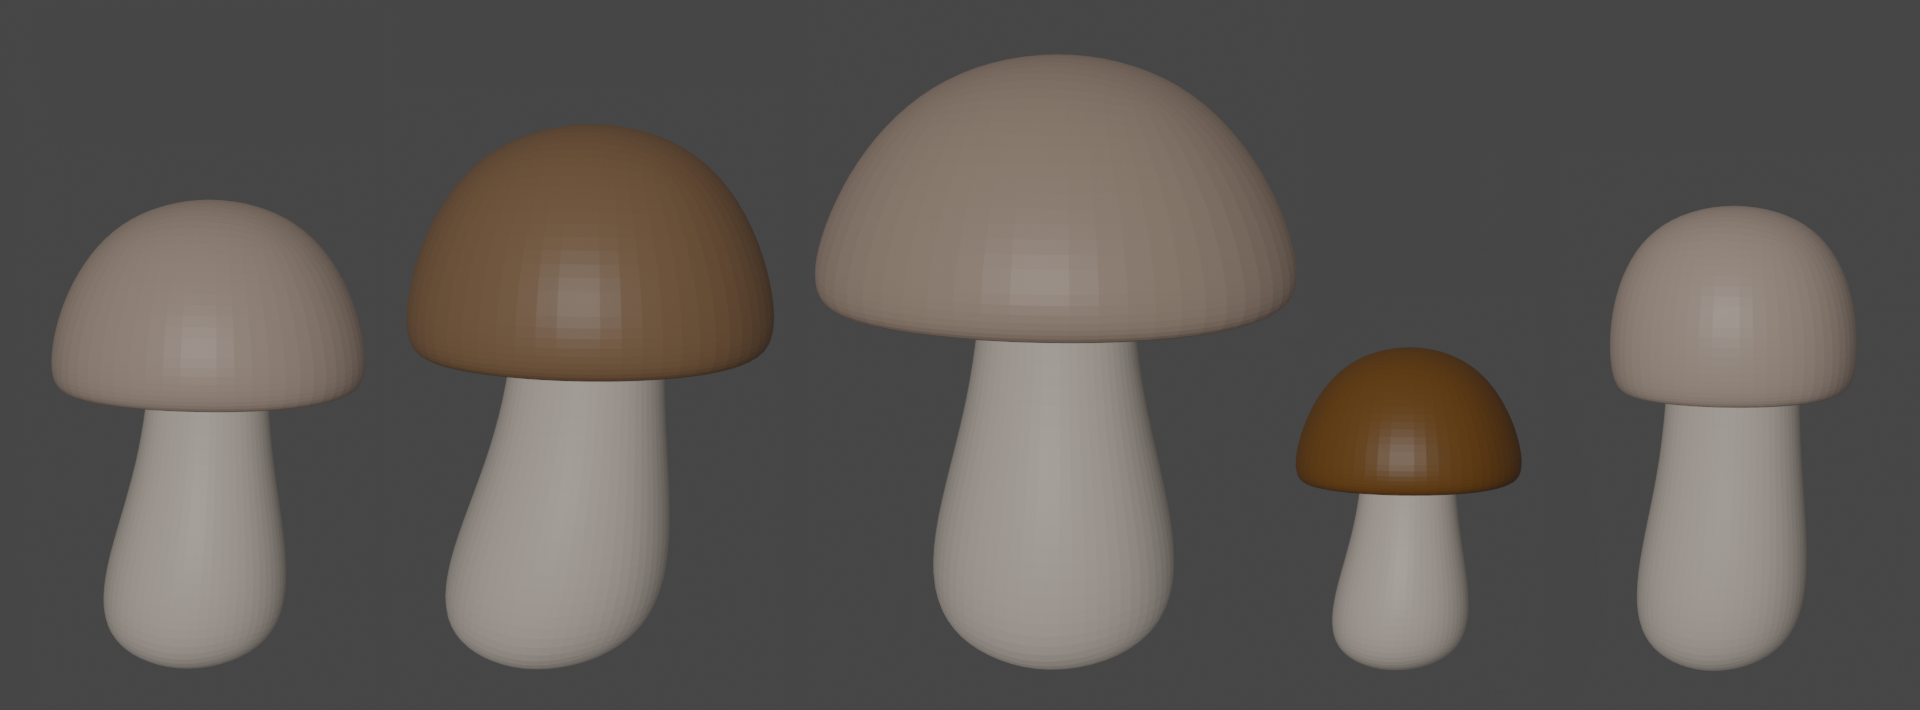
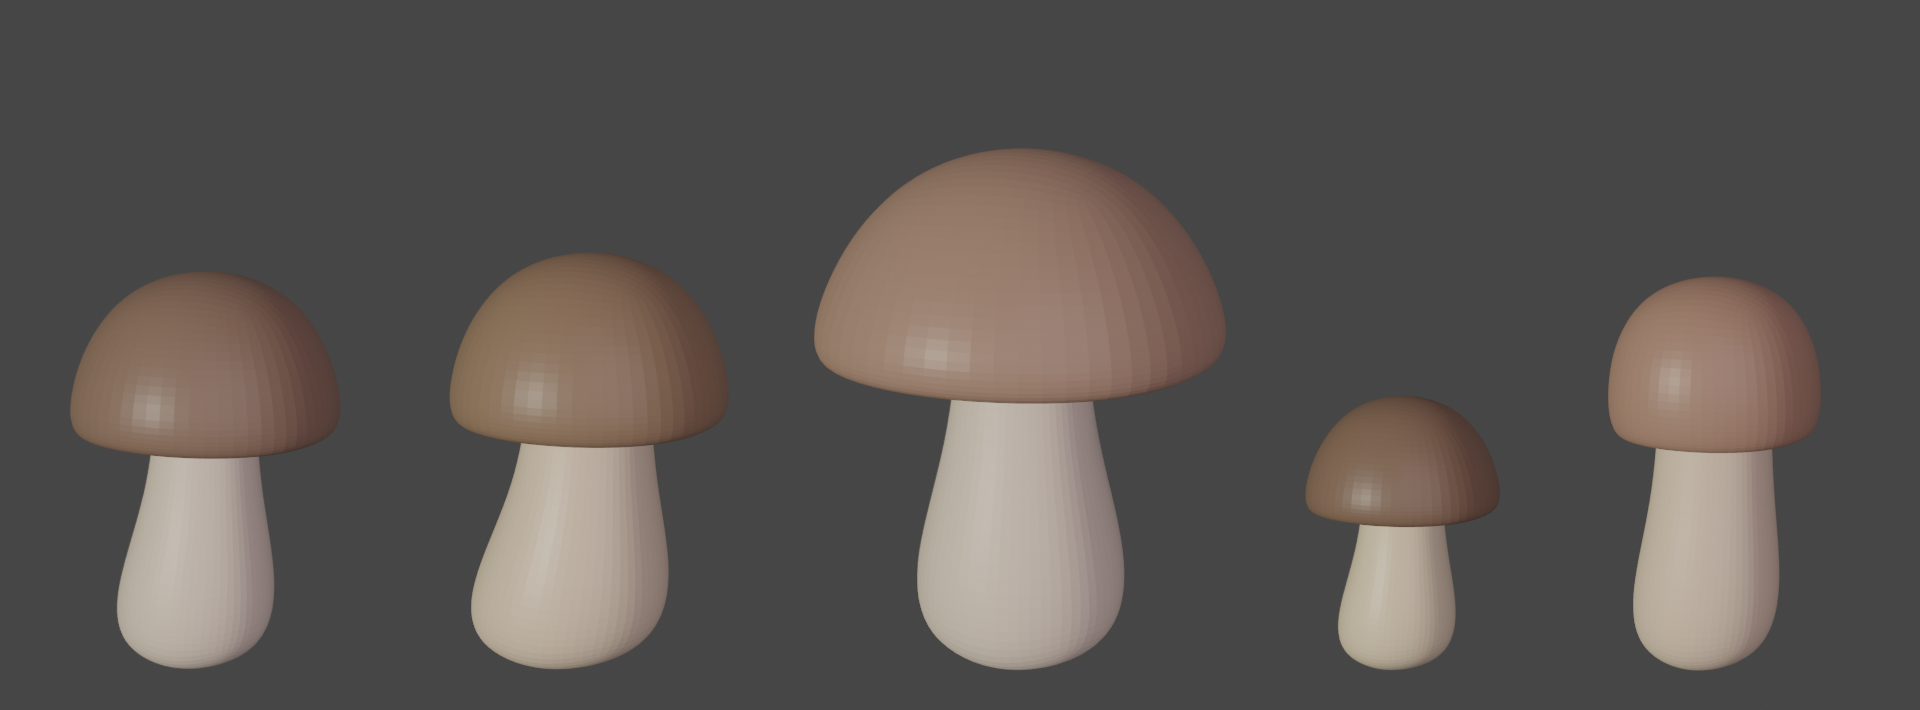
improved some random values (material + mesh)

diff --git a/addon/mushroom_generator_addon.py b/addon/mushroom_generator_addon.py
@@ -1,6 +1,7 @@
 import bpy
 import bmesh
 import random
+from mathutils import Color
 
 bl_info = {
     "name": "Mushroom Generator",
@@ -74,7 +75,7 @@ class MUSHROOMGENERATOR_OT_add_mushroom(bpy.types.Operator):
             
         elif self.SPECIES == 'SP2':
             bpy.context.object.name = "Crested Inkling"
-            random_stem_thickness = random.uniform(0.25, 0.3)
+            random_stem_thickness = random.uniform(0.3, 0.32)
             random_stem_base_thickness = 1.2
             random_stem_offset = 0
             random_cap_height = random.uniform(1, 2)
@@ -99,7 +100,7 @@ class MUSHROOMGENERATOR_OT_add_mushroom(bpy.types.Operator):
             random_stem_thickness = random.uniform(0.1, 0.3)
             random_stem_base_thickness = 1.5
             random_stem_offset = random.uniform(0, 0.1)
-            random_cap_height = random.uniform(0.1, 1)
+            random_cap_height = random.uniform(0.3, 1)
             random_cap_width = random.uniform(0.9, 2.5)
             random_cap_top_width = 1
             # realistic size (1 = 1m): mushroom 10cm to 20cm
@@ -229,12 +230,33 @@ class MUSHROOMGENERATOR_OT_add_mushroom(bpy.types.Operator):
     def create_boletus_materials(self):
         """ CREATE STEM MATERIAL """
         stem_material = bpy.data.materials.new(name="boletus_stem")
-        stem_material.diffuse_color = (0.9215, 0.8117, 0.7098, 1)
+        
+        c = Color()
+        c.hsv = 0.1125, 0.2140, 1
+        
+        random_added_h_value = random.uniform(0, 0.0229)
+        random_added_s_value = random.uniform(0, 0.2046)
+        
+        c.h -= random_added_h_value
+        c.s += random_added_s_value
+        
+        stem_material.diffuse_color = (c.r, c.g, c.b, 1)
         
         """ CREATE CAP MATERIAL """
         cap_material = bpy.data.materials.new(name="boletus_cap")
-        random_color_total_value = random.uniform(0, 0.4901)
-        cap_material.diffuse_color = (0.2588 + random_color_total_value, 0.1019 + random_color_total_value, 0.0078 + random_color_total_value, 1)
+        
+        c = Color()
+        c.hsv = 0.0707, 0.6, 0.7742 
+        
+        random_added_h_value = random.uniform(0, 0.0257)
+        random_added_s_value = random.uniform(0, 0.08)
+        random_added_v_value = random.uniform(0, 0.5)
+        
+        c.h -= random_added_h_value
+        c.s -= random_added_s_value
+        c.v -= random_added_v_value
+        
+        cap_material.diffuse_color = (c.r, c.g, c.b, 1)
         
         return stem_material, cap_material
         
@@ -242,8 +264,8 @@ class MUSHROOMGENERATOR_OT_add_mushroom(bpy.types.Operator):
     def create_crested_inkling_materials(self):
         """ CREATE STEM MATERIAL """
         stem_material = bpy.data.materials.new(name="crested_inkling_stem")
-        random_color_total_value = random.uniform(0, 0.0470)
-        stem_material.diffuse_color = (0.9529 + random_color_total_value, 0.9058 + random_color_total_value * 2, 0.8588 + random_color_total_value * 3, 1)
+        random_added_b_value = random.uniform(0, 0.2)
+        stem_material.diffuse_color = (1, 0.9, 0.8 + random_added_b_value, 1)
         
         """ CREATE CAP MATERIAL """
         cap_material = bpy.data.materials.new(name="crested_inkling_cap")
@@ -276,7 +298,8 @@ class MUSHROOMGENERATOR_OT_add_mushroom(bpy.types.Operator):
         node_colors.color_ramp.elements[0].color = (0.1513, 0.1425, 0.1180, 1)
         node_colors.color_ramp.elements.new(0.1939)
         node_colors.color_ramp.elements[1].color = (0.8056, 0.7318, 0.5348, 1)
-        node_colors.color_ramp.elements[2].color = (1, 1, 1, 1)
+        random_added_b_value = random.uniform(0, 0.15)
+        node_colors.color_ramp.elements[2].color = (1, 1, 0.85 + random_added_b_value, 1)
         # connect nodes
         cap_material.node_tree.links.new(node_wave_1.outputs[0], node_mix.inputs[1])
         cap_material.node_tree.links.new(node_wave_2.outputs[0], node_mix.inputs[2])
@@ -320,17 +343,24 @@ class MUSHROOMGENERATOR_OT_add_mushroom(bpy.types.Operator):
         node_colors = nodes_cap.new("ShaderNodeValToRGB")
         # set nodes' values
         # voronoi node
-        node_dots.inputs[2].default_value = 60 # scale
-        random_randomness_value = random.uniform(0.5, 1)
-        node_dots.inputs[5].default_value = random_randomness_value # randomness
+        random_scale_value = random.uniform(55, 120) # scale
+        node_dots.inputs[2].default_value = random_scale_value
+        node_dots.inputs[5].default_value = 1 # randomness
         # less than node
-        random_threshold_value = random.uniform(0.2, 0.45)
+        random_threshold_value = random.uniform(0.15, 0.3)
         node_math.inputs[1].default_value = random_threshold_value # threshold
+        
         # color ramp node
-        random_color_value_r = 1
-        random_color_value_g = random.uniform(0, 0.05)
-        random_color_value_b = 0
-        node_colors.color_ramp.elements[0].color = (random_color_value_r,random_color_value_g,random_color_value_b,1)
+        c = Color()
+        c.hsv = 0.01, 1, 1
+        random_added_h_value = random.uniform(0, 0.01)
+        random_added_v_value = random.uniform(0, 0.3262)
+        c.h -= random_added_h_value
+        c.v -= random_added_v_value
+        node_colors.color_ramp.elements[0].color = (c.r, c.g, c.b, 1)
+        # dots color same as stem
+        node_colors.color_ramp.elements[1].color = (1, 0.8479 + random_color_total_value, 0.6313 + random_color_total_value * 2.4, 1)
+        
         # connect nodes
         cap_material.node_tree.links.new(node_coords.outputs[3], node_mapping.inputs[0])
         cap_material.node_tree.links.new(node_mapping.outputs[0], node_dots.inputs[0])
@@ -347,22 +377,9 @@ class MUSHROOMGENERATOR_OT_add_mushroom(bpy.types.Operator):
 
     def execute(self, context):
         random.seed(self.SEED)
-        mushroom_collection: bpy.types.Collection
-        
-        if "Mushrooms" in bpy.data.collections:
-            mushroom_collection = bpy.data.collections["Mushrooms"]
-        else:
-            mushroom_collection = bpy.data.collections.new("Mushrooms")
          
-        try:
-            bpy.context.scene.collection.children.link(mushroom_collection)
-        except:
-            ... # collction already linked
-            
         # generate the mushroom
         generated_mushroom: bpy.types.Object = self.generate_mushroom()
-        # link the mushroom to the collection
-        mushroom_collection.objects.link(generated_mushroom)
 
         return {"FINISHED"}
 
